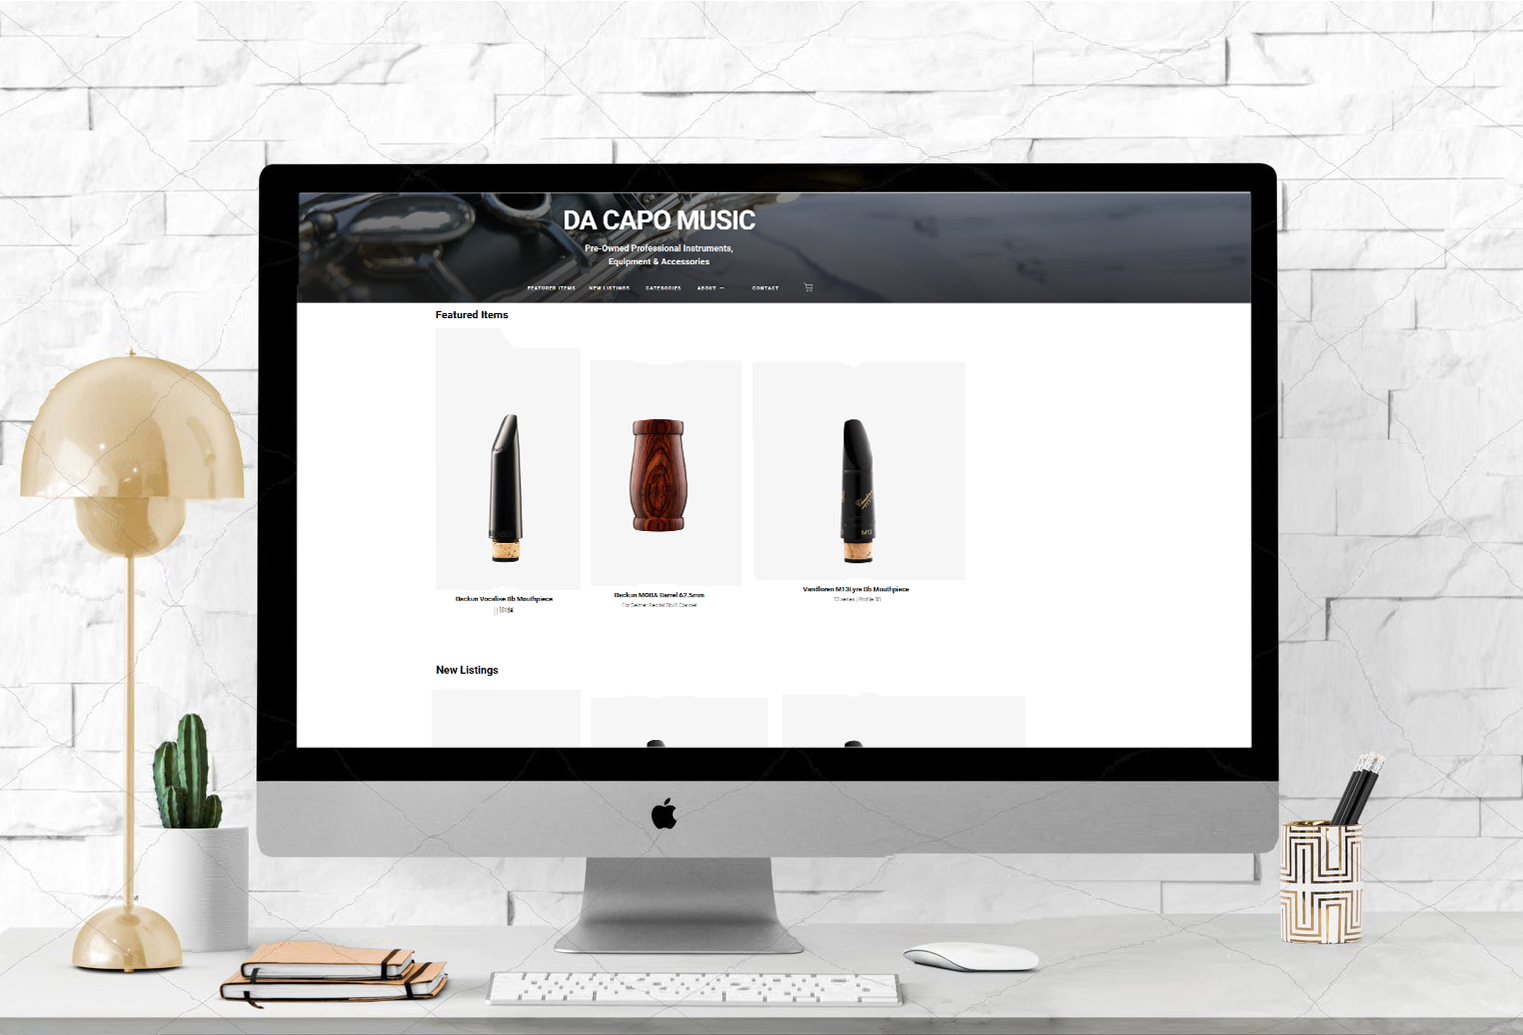
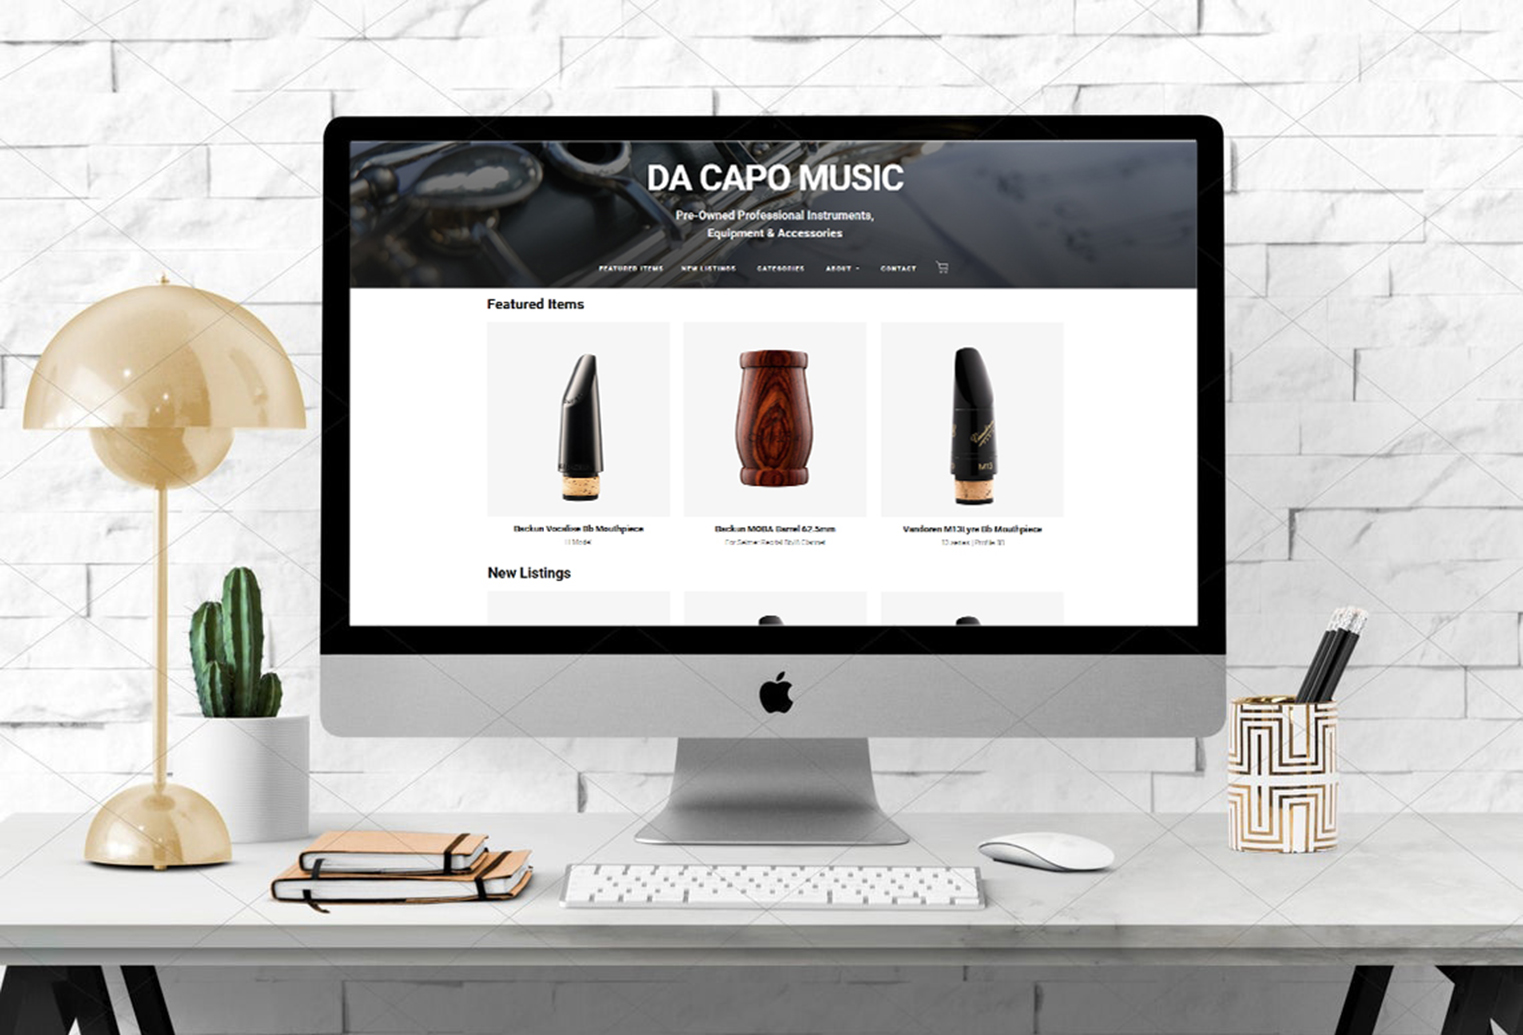
add project 4 img, edit h2 font weight

diff --git a/index.html b/index.html
@@ -155,7 +155,7 @@
 								<div class="image-container">
 									<a href="https://dacapomusic.net/" target="_blank">
 										<img
-											src="./images/DaCapoFlattened.jpg"
+											src="./images/DaCapoFlattened2.jpg"
 											alt="screenshot of music retail website"
 										/>
 									</a>

diff --git a/css/style.css b/css/style.css
@@ -384,6 +384,7 @@ About
 }
 .about-details .right h3 {
 	text-transform: capitalize;
+	font-weight: 300;
 }
 .about-details .right p {
 	color: var(--fc-secondary);
